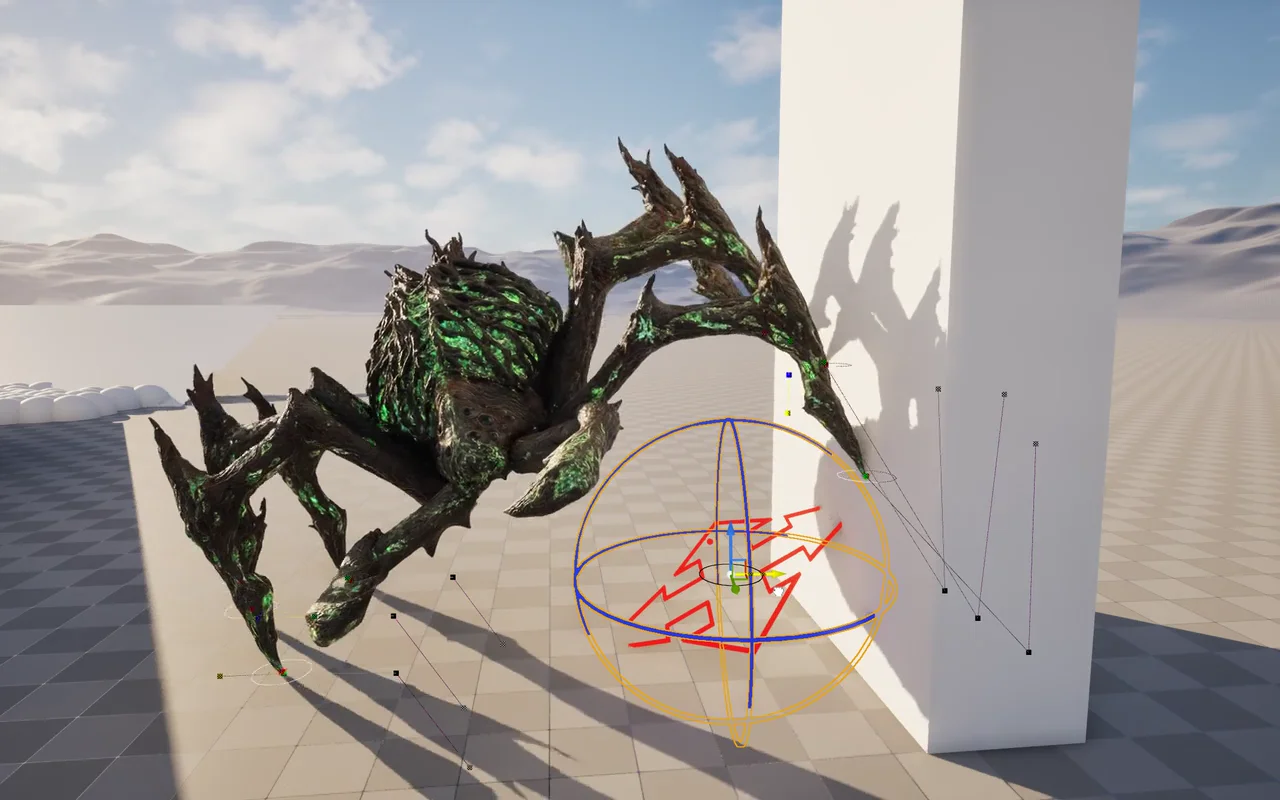
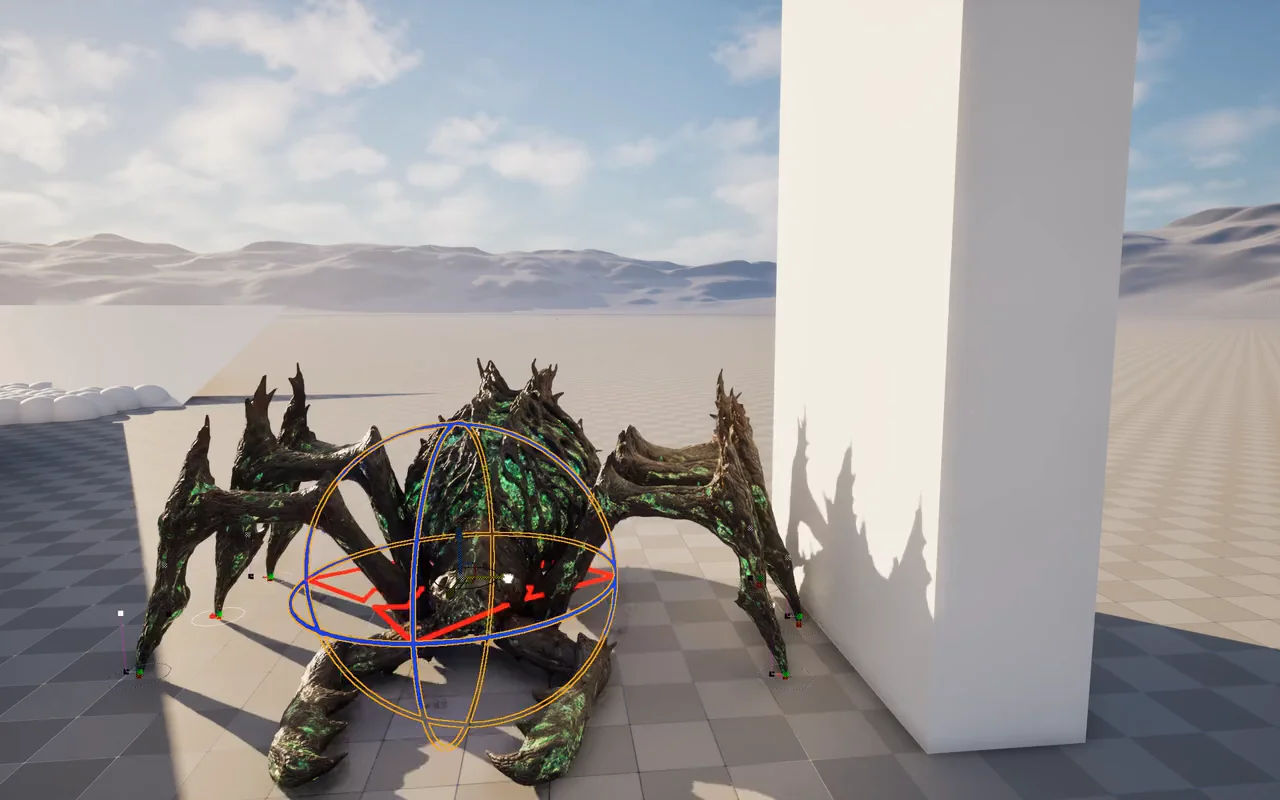
Show spider first frames while videos buffer

Changed region(s): [[0.0938, 0.1875, 0.8125, 1.0]]

diff --git a/samples.html b/samples.html
@@ -9,7 +9,7 @@
     <title>Samples — Artur Kosma</title>
     <link rel="stylesheet" href="css/tokens.css?v=328" />
     <link rel="stylesheet" href="css/base.css?v=328" />
-    <link rel="stylesheet" href="css/components.css?v=343" />
+    <link rel="stylesheet" href="css/components.css?v=344" />
     <link rel="stylesheet" href="css/pages.css?v=328" />
   </head>
   <body class="page-samples">
@@ -58,7 +58,15 @@
                   data-alt="Locomotor sample 1"
                 >
                   <div class="media-slot__frame" data-media-frame>
-                    <div class="media-slot__placeholder" aria-hidden="true"></div>
+                    <img
+                      class="media-slot__poster"
+                      src="assets/portfolio/locomotor/poster.webp?v=329"
+                      width="1280"
+                      height="800"
+                      alt=""
+                      loading="eager"
+                      decoding="async"
+                    />
                   </div>
                 </div>
                 <div class="project-detail">
@@ -93,7 +101,15 @@
                   data-alt="Locomotor sample 2"
                 >
                   <div class="media-slot__frame" data-media-frame>
-                    <div class="media-slot__placeholder" aria-hidden="true"></div>
+                    <img
+                      class="media-slot__poster"
+                      src="assets/portfolio/locomotor/poster-2.webp?v=330"
+                      width="1280"
+                      height="800"
+                      alt=""
+                      loading="eager"
+                      decoding="async"
+                    />
                   </div>
                 </div>
                 <div class="project-detail">
@@ -131,7 +147,15 @@ const FVector Offset = LocalUp * MaxHeight;</code></pre>
                   data-alt="Spider adapting its footing to changing support widths"
                 >
                   <div class="media-slot__frame" data-media-frame>
-                    <div class="media-slot__placeholder" aria-hidden="true"></div>
+                    <img
+                      class="media-slot__poster"
+                      src="assets/portfolio/locomotor/poster-3.webp?v=336"
+                      width="1280"
+                      height="800"
+                      alt=""
+                      loading="eager"
+                      decoding="async"
+                    />
                   </div>
                 </div>
                 <div class="project-detail">
@@ -159,11 +183,19 @@ const FVector End = RefLocation
                   data-media-slot
                   data-type="video"
                   data-src="assets/portfolio/locomotor/media-4.mp4?v=339"
-                  data-poster="assets/portfolio/locomotor/poster-4.webp?v=339"
+                  data-poster="assets/portfolio/locomotor/poster-4.webp?v=344"
                   data-alt="Spider reference automatically adjusting pitch and roll near a wall"
                 >
                   <div class="media-slot__frame" data-media-frame>
-                    <div class="media-slot__placeholder" aria-hidden="true"></div>
+                    <img
+                      class="media-slot__poster"
+                      src="assets/portfolio/locomotor/poster-4.webp?v=344"
+                      width="1280"
+                      height="800"
+                      alt=""
+                      loading="eager"
+                      decoding="async"
+                    />
                   </div>
                 </div>
                 <div class="project-detail">
@@ -196,11 +228,19 @@ reference.rotation = tilt * MAIN.rotation</code></pre>
                   data-media-slot
                   data-type="video"
                   data-src="assets/portfolio/locomotor/media-5.mp4?v=340"
-                  data-poster="assets/portfolio/locomotor/poster-5.webp?v=340"
+                  data-poster="assets/portfolio/locomotor/poster-5.webp?v=344"
                   data-alt="Spring dampers adding inertia and secondary motion to the spider’s procedural pose"
                 >
                   <div class="media-slot__frame" data-media-frame>
-                    <div class="media-slot__placeholder" aria-hidden="true"></div>
+                    <img
+                      class="media-slot__poster"
+                      src="assets/portfolio/locomotor/poster-5.webp?v=344"
+                      width="1280"
+                      height="800"
+                      alt=""
+                      loading="eager"
+                      decoding="async"
+                    />
                   </div>
                 </div>
                 <div class="project-detail">
@@ -387,6 +427,6 @@ reference.rotation = tilt * MAIN.rotation</code></pre>
         </li>
       </ul>
     </main>
-    <script src="js/media-on-demand.js?v=328" defer></script>
+    <script src="js/media-on-demand.js?v=344" defer></script>
   </body>
 </html>

diff --git a/js/media-on-demand.js b/js/media-on-demand.js
@@ -14,6 +14,7 @@
     const src = slot.dataset.src;
     const type = slot.dataset.type || "video";
 
+    const preview = frame.querySelector(".media-slot__poster");
     frame.replaceChildren();
 
     if (!src) {
@@ -47,6 +48,16 @@
       video.disablePictureInPicture = true;
       video.disableRemotePlayback = true;
       if (poster) video.poster = poster;
+      if (preview) {
+        frame.appendChild(preview);
+        // Autoplay can hide the native poster before the first frame is ready.
+        const revealVideo = () => preview.remove();
+        if (typeof video.requestVideoFrameCallback === "function") {
+          video.requestVideoFrameCallback(revealVideo);
+        } else {
+          video.addEventListener("loadeddata", revealVideo, { once: true });
+        }
+      }
       video.src = src;
       video.addEventListener("contextmenu", (e) => e.preventDefault());
       frame.appendChild(video);

diff --git a/css/components.css b/css/components.css
@@ -602,6 +602,13 @@ details[data-project][open]::details-content {
   display: block;
 }
 
+.media-slot__poster {
+  position: absolute;
+  inset: 0;
+  z-index: 1;
+  display: block;
+}
+
 .media-slot__placeholder {
   width: 100%;
   height: 100%;
